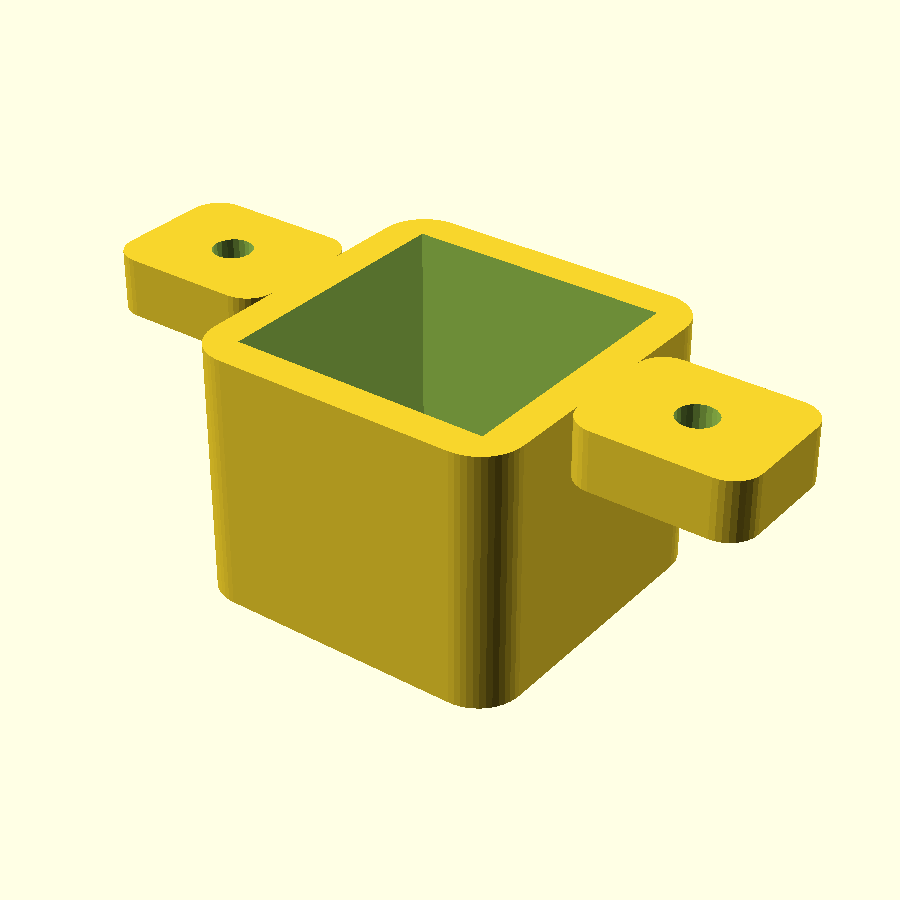
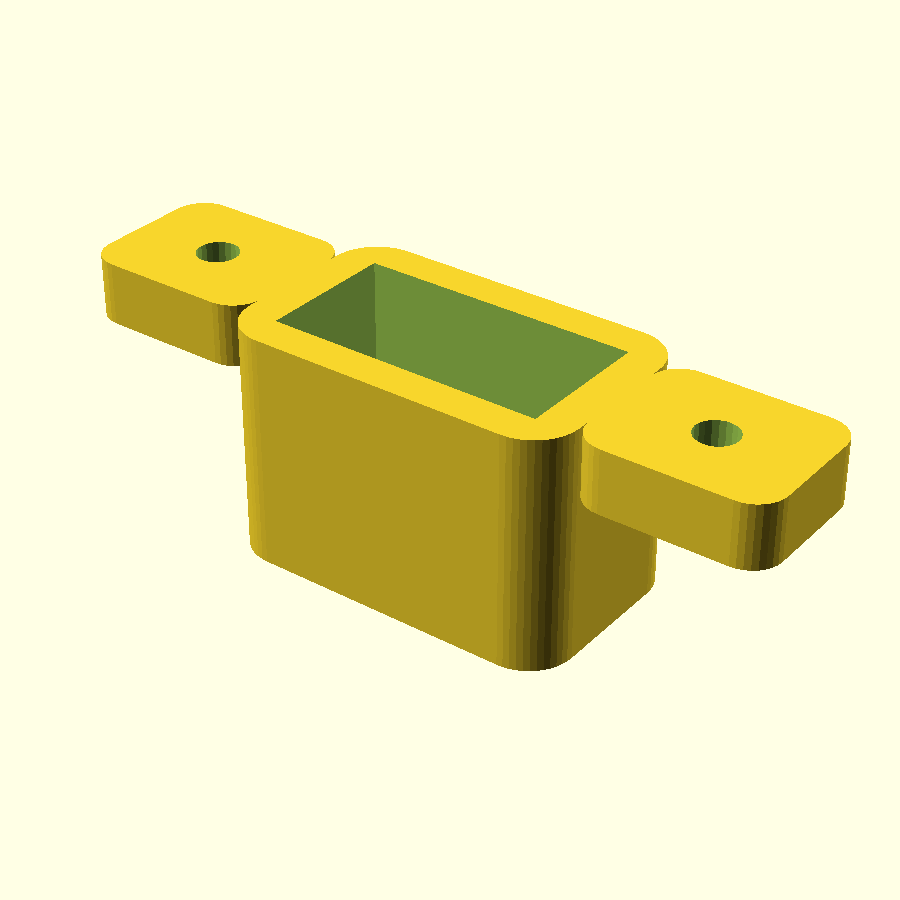
Pod reworked for the real snap-in socket (CHT-TS023R drawing)
Carl supplied the engineering drawings: 4P PD pigtail variant, snap-in
rectangular cutout 13.6x6.3 R1.3 in a 2.0mm face, cavity sized for
body + snap-wing deployment, wires pass straight through into the
enclosure. Replaces the guessed round nut-mount face. README: 2P
variant warning (no CC = no VBUS on C-to-C), 5.1k CC termination note.

Changed region(s): [[0.0933, 0.2178, 0.9644, 0.8089], [0.6844, 0.6533, 0.7156, 0.6844]]

diff --git a/README.md b/README.md
@@ -24,7 +24,8 @@ not started.**
 | 16×16 WS2812B flexible panel | 160×160 mm, 10 mm pitch — the common ~£12–15 one |
 | ESP32-S3 supermini | in stock; WiFi NTP + web UI + animations |
 | 5 V / 3 A USB-C supply | into the rear power breakout; see power budget below |
-| Panel-mount USB-C power socket (pigtail) | MUST be 5 V output (PD-trigger types: 5 V variant only); measure before printing shell + pod |
+| Snap-in USB-C power socket, 4P PD pigtail | CHT-TS023R style, 5 A; 2P variant won't work with C-to-C cables |
+| 2× 5.1 kΩ resistors | CC1/CC2 → GND if the socket's CC wires are unterminated |
 | 1000 µF electrolytic (≥6.3 V) | across 5 V/GND at the panel pigtail |
 | 330 Ω resistor | in the data line to DIN |
 | 3 mm foam sheet | behind the panel, pressed by the shell ribs |
@@ -73,16 +74,24 @@ for arbitrary animation frames. Two-layer solution:
    same time. (If your supermini has no diode — no ~0.3 V drop
    between USB VBUS and the 5 V pin — don't plug both in at once.)
 
-Socket notes — check the listing carefully:
-- **It must output 5 V.** A passthrough socket with 5.1 kΩ CC
-  pull-downs defaults to 5 V — good. A "PD trigger" module negotiates
-  a set voltage: only the 5 V variant is usable (9/12/20 V kills
-  WS2812s instantly). Verify with a multimeter before first
-  connection to the panel.
-- Without CC pull-downs a USB-C PSU only offers 0.5–1.5 A; "PD"
-  types handle this.
-- **Measure the socket before printing** and set `pwr_body` (w×h×d)
-  and `pwr_face_hole_d` in the Customizer — the defaults are guesses.
+Socket: **snap-in pigtail USB-C female, 4P PD/fast-charge variant**
+(NinthQua CHT-TS023R-H160-P4 style — engineering drawing in Carl's
+Downloads). The pod face is its mounting panel: 13.6 × 6.3 mm R1.3
+cutout in a 2.0 mm face; the socket snaps in from the outside, body
+and wires pass straight through into the enclosure. Rated 5 A.
+
+- **Buy the 4P (PD/fast-charge) variant, not the 2P.** The 2-wire
+  version has no CC pins, and a compliant USB-C supply won't enable
+  VBUS at all without CC termination (it only works on A-to-C
+  cables). The 4P version brings CC out; if the CC wires are
+  unterminated, fit **5.1 kΩ from each CC to GND** to request
+  5 V/3 A.
+- **It must present 5 V.** These passthrough sockets don't negotiate
+  voltage themselves, but verify with a multimeter before first
+  connection to the panel — 9/12/20 V kills WS2812s instantly.
+- Pod dimensions are taken from the CHT-TS023R drawing; if your
+  delivered part differs, adjust `pwr_snap_w/h/r`, `pwr_face_t`,
+  `pwr_cavity` in the Customizer.
 
 Supporting cast, standard WS2812 practice: **1000 µF electrolytic**
 across 5 V/GND at the panel pigtail (also stops the ESP32 browning
